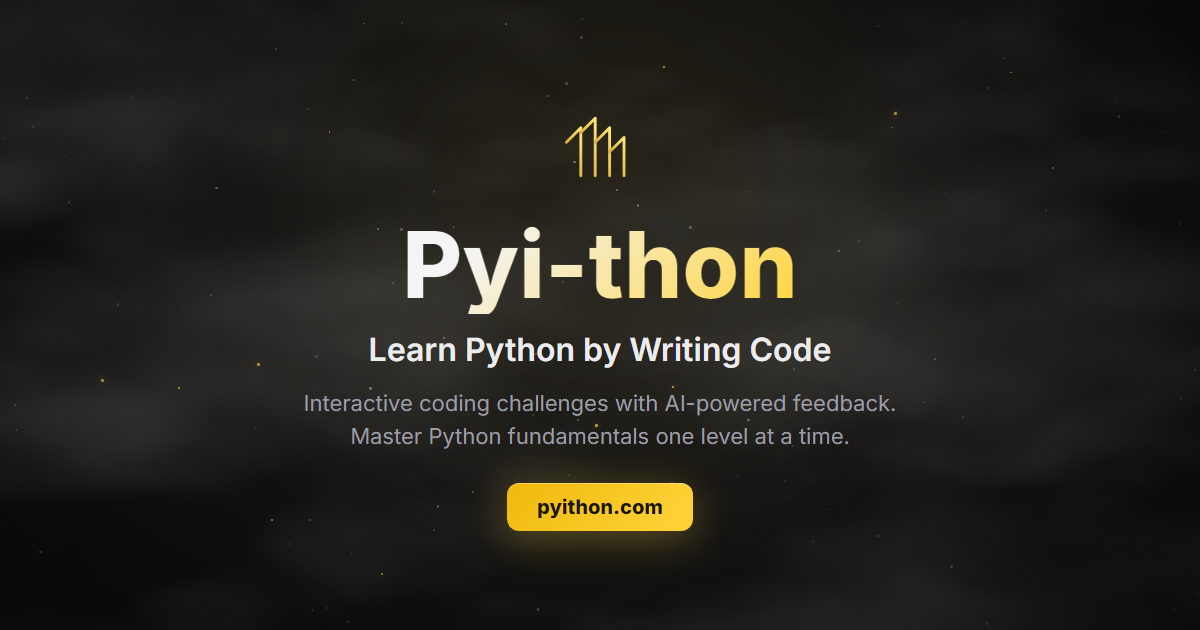
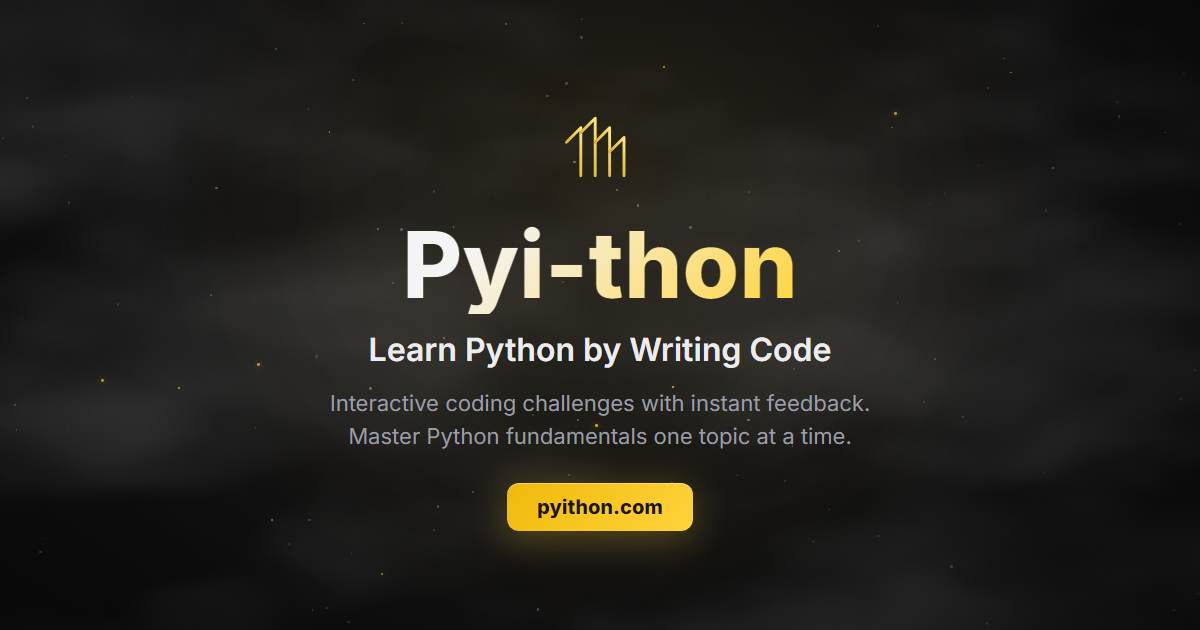
fix: drop ai-powered claim from intro and share text (#31)

Changed region(s): [[0.2467, 0.6333, 0.74, 0.7238]]

diff --git a/index.html b/index.html
@@ -12,7 +12,7 @@
     <meta name="mobile-web-app-capable" content="yes" />
     <meta name="format-detection" content="telephone=no" />
     <title>Pyi-thon - Learn Python by Writing Code</title>
-    <meta name="description" content="Interactive Python coding challenges with AI-powered feedback. Master Python fundamentals one level at a time. Free and open source." />
+    <meta name="description" content="Interactive Python coding challenges with instant feedback. Master Python fundamentals one topic at a time. Free and open source." />
     <link rel="canonical" href="https://pyithon.com/" />
     <link rel="icon" type="image/svg+xml" href="/favicon.svg" />
     <link rel="icon" type="image/png" sizes="192x192" href="/icon-192.png" />
@@ -28,15 +28,15 @@
     <meta property="og:site_name" content="Pyi-thon" />
     <meta property="og:url" content="https://pyithon.com/" />
     <meta property="og:title" content="Pyi-thon - Learn Python by Writing Code" />
-    <meta property="og:description" content="Interactive Python coding challenges with AI-powered feedback. Master Python fundamentals one level at a time." />
-    <meta property="og:image" content="https://pyithon.com/og-image.png?v=2" />
+    <meta property="og:description" content="Interactive Python coding challenges with instant feedback. Master Python fundamentals one topic at a time." />
+    <meta property="og:image" content="https://pyithon.com/og-image.png?v=3" />
     <meta property="og:image:alt" content="Pyi-thon Python learning workspace preview" />
     <meta property="og:image:width" content="1200" />
     <meta property="og:image:height" content="630" />
     <meta name="twitter:card" content="summary_large_image" />
     <meta name="twitter:title" content="Pyi-thon - Learn Python by Writing Code" />
-    <meta name="twitter:description" content="Interactive Python coding challenges with AI-powered feedback. Master Python fundamentals one level at a time." />
-    <meta name="twitter:image" content="https://pyithon.com/og-image.png?v=2" />
+    <meta name="twitter:description" content="Interactive Python coding challenges with instant feedback. Master Python fundamentals one topic at a time." />
+    <meta name="twitter:image" content="https://pyithon.com/og-image.png?v=3" />
     <meta name="twitter:image:alt" content="Pyi-thon Python learning workspace preview" />
 
     <link href="https://fonts.googleapis.com/css2?family=Inter:wght@400;500;600;700;800&family=JetBrains+Mono:wght@400;500;600;700&display=swap" rel="stylesheet">

diff --git a/src/data/appConfig.js b/src/data/appConfig.js
@@ -88,7 +88,7 @@ export const STRINGS = {
     enableSound: "Enable sound effects",
     disableSound: "Disable sound effects",
     backToCurrentLevel: "Back to current level",
-    tagline: "Master Python from scratch.\nAI-powered feedback. Real coding.",
+    tagline: "Master Python from scratch.\nInstant feedback. Real coding.",
     subtitle: "30 levels · 3 phases · Open Source",
     settings: "Settings",
     darkMode: "Dark",
@@ -239,7 +239,7 @@ export const STRINGS = {
     enableSound: "사운드 켜기",
     disableSound: "사운드 끄기",
     backToCurrentLevel: "현재 레벨로 돌아가기",
-    tagline: "파이썬을 처음부터 마스터하세요.\nAI 피드백. 진짜 코딩.",
+    tagline: "파이썬을 처음부터 마스터하세요.\n즉시 피드백. 진짜 코딩.",
     subtitle: "30 레벨 · 3 단계 · 오픈 소스",
     settings: "설정",
     darkMode: "다크",
